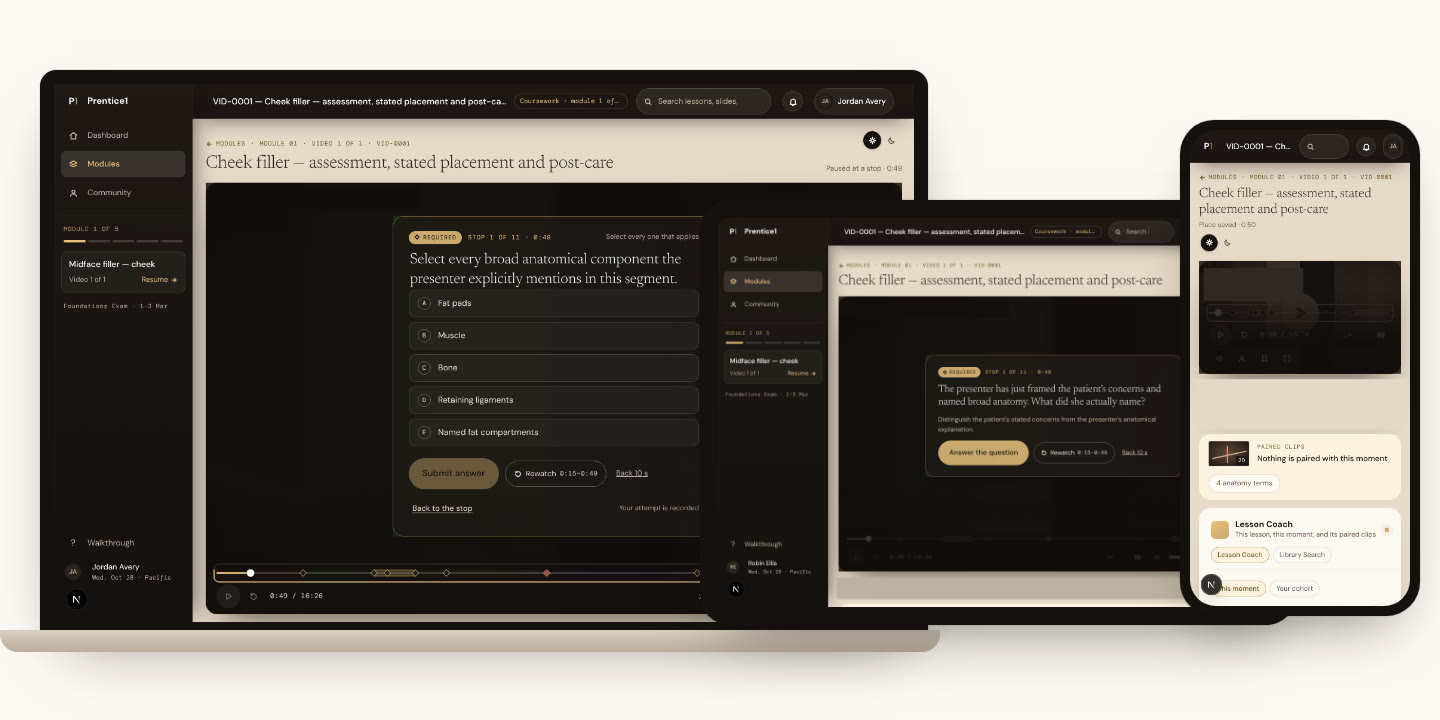
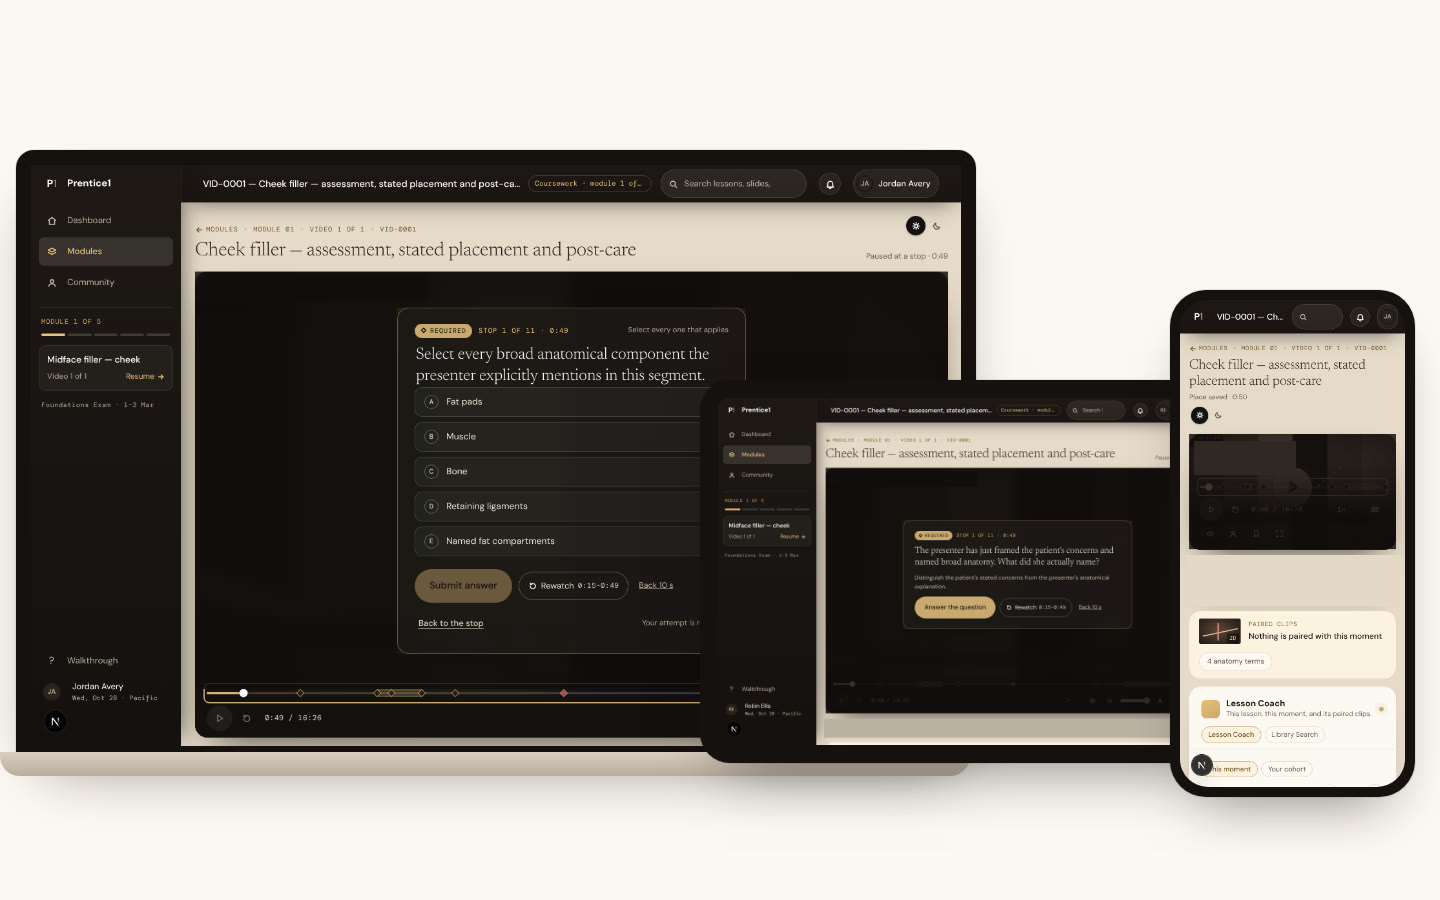
Online classroom: captures run to the edge, with no outline, and larger devices
Claude-Session: https://claude.ai/code/session_01SdgCLNUCuCREYiDR1hWYUr

diff --git a/assets/css/site.css b/assets/css/site.css
@@ -571,16 +571,17 @@ p { margin: 0; }
 .features__fig figcaption,
 .group-fig figcaption { font-size: 13px; color: var(--ink-2); }
 
-/* Every capture sits in the same 16:10 frame, so the stage never changes
-   height between features. Screens fill it from the top-left, where the
-   platform's own chrome is; the model and the light captures sit whole. */
-.features__frame { position: relative; aspect-ratio: 16 / 10; overflow: hidden; border-radius: var(--r-frame); border: 1px solid var(--rule); background: var(--charcoal); box-shadow: var(--shadow-media); }
+/* Every capture sits in the same 16:10 box, so the stage never changes height
+   between features. No border or shadow: each capture runs to the edge of
+   the box. Screens fill it from the top-left, where the platform's own chrome
+   is; the light captures sit straight on the section's cream. */
+.features__frame { position: relative; aspect-ratio: 16 / 10; overflow: hidden; border-radius: var(--r-frame); background: var(--charcoal); }
 .features__frame img,
 .features__frame video { position: absolute; inset: 0; width: 100%; height: 100%; object-fit: cover; object-position: 0 0; }
 .features__frame--model { background: #121212; }
-.features__frame--model video { object-fit: contain; object-position: 50% 50%; }
-.features__frame--light { background: var(--cream); }
-.features__frame--light img { object-fit: contain; object-position: 50% 50%; padding: var(--s-2); }
+.features__frame--model video { object-position: 50% 40%; }
+.features__frame--light { background: transparent; border-radius: 0; }
+.features__frame--light img { object-fit: contain; object-position: 50% 50%; }
 
 /* --- Enhanced: the menu on the left, one stage on the right ------------ */
 /* The stage takes most of the row: the captures are screens with small type,

diff --git a/index.html b/index.html
@@ -282,7 +282,7 @@
             <p class="features__b">Your place, your answers and the stop you were on are saved, so you pick up on any device where you left off.</p>
             <figure class="features__fig">
               <div class="features__frame features__frame--light">
-                <img src="/assets/img/classroom/devices.jpg" width="1440" height="720" loading="lazy" decoding="async"
+                <img src="/assets/img/classroom/devices.jpg" width="1440" height="900" loading="lazy" decoding="async"
                      alt="The same paused lesson on a laptop, an iPad and a phone">
               </div>
               <figcaption>The same lesson on a laptop, an iPad and a phone.</figcaption>
